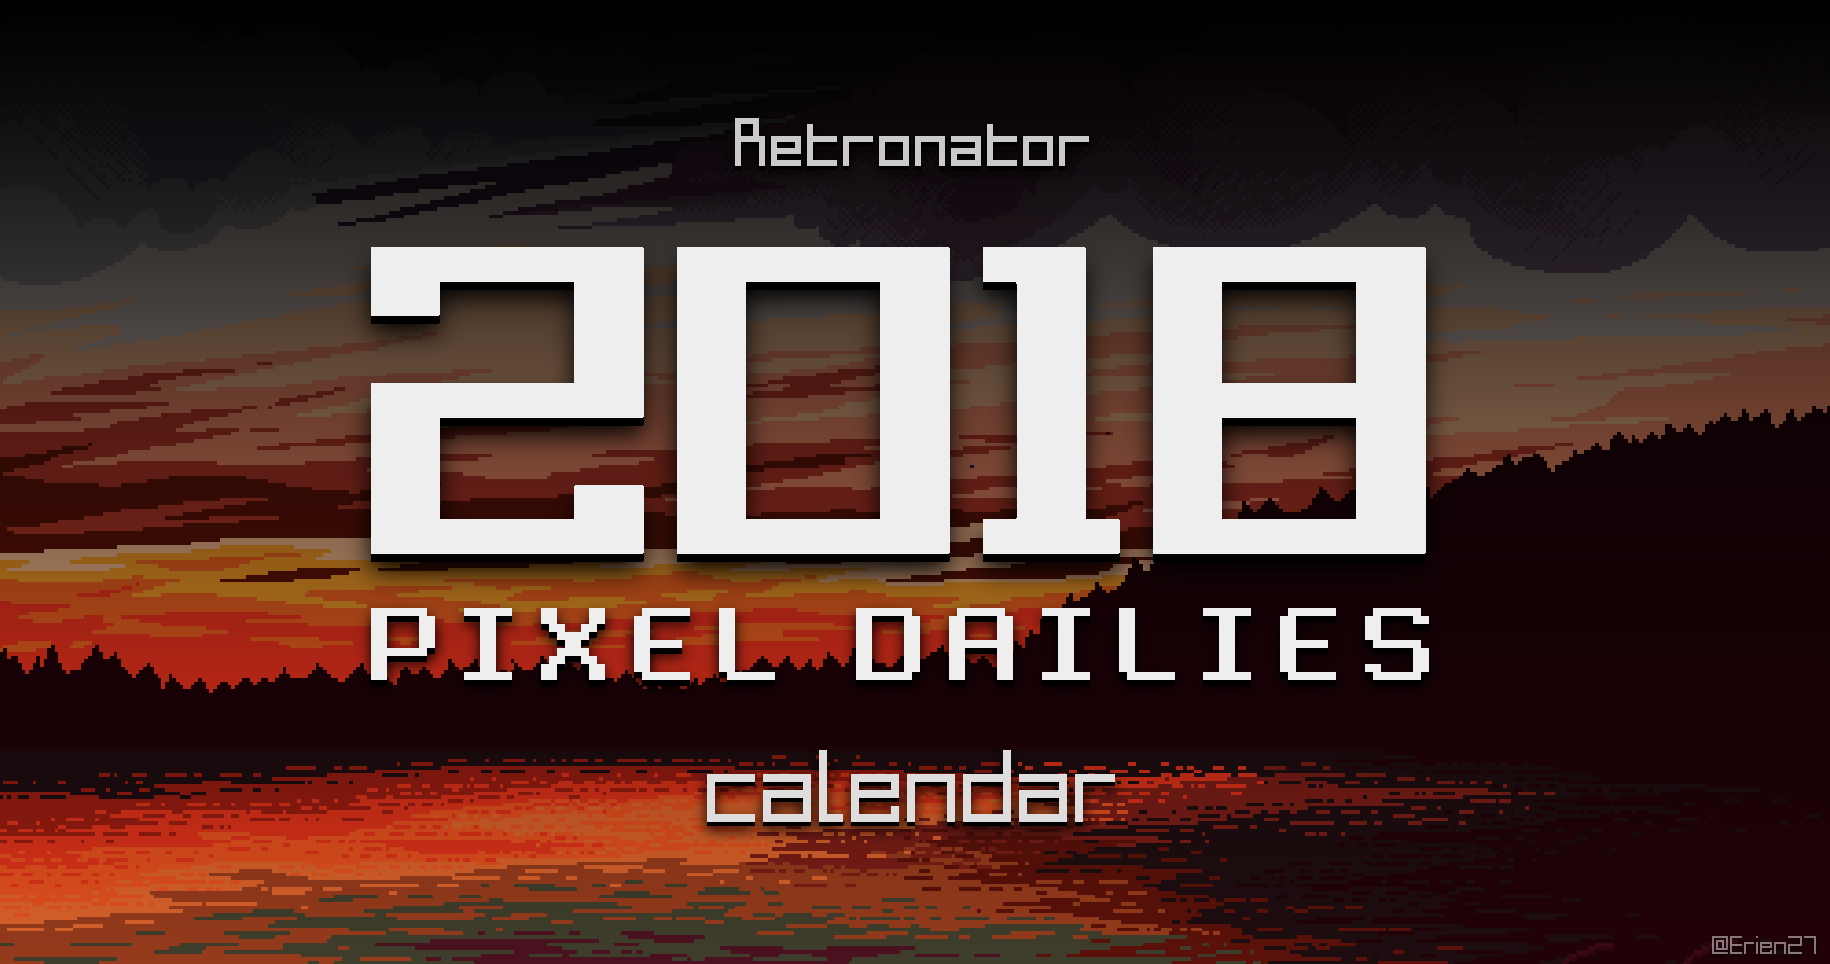
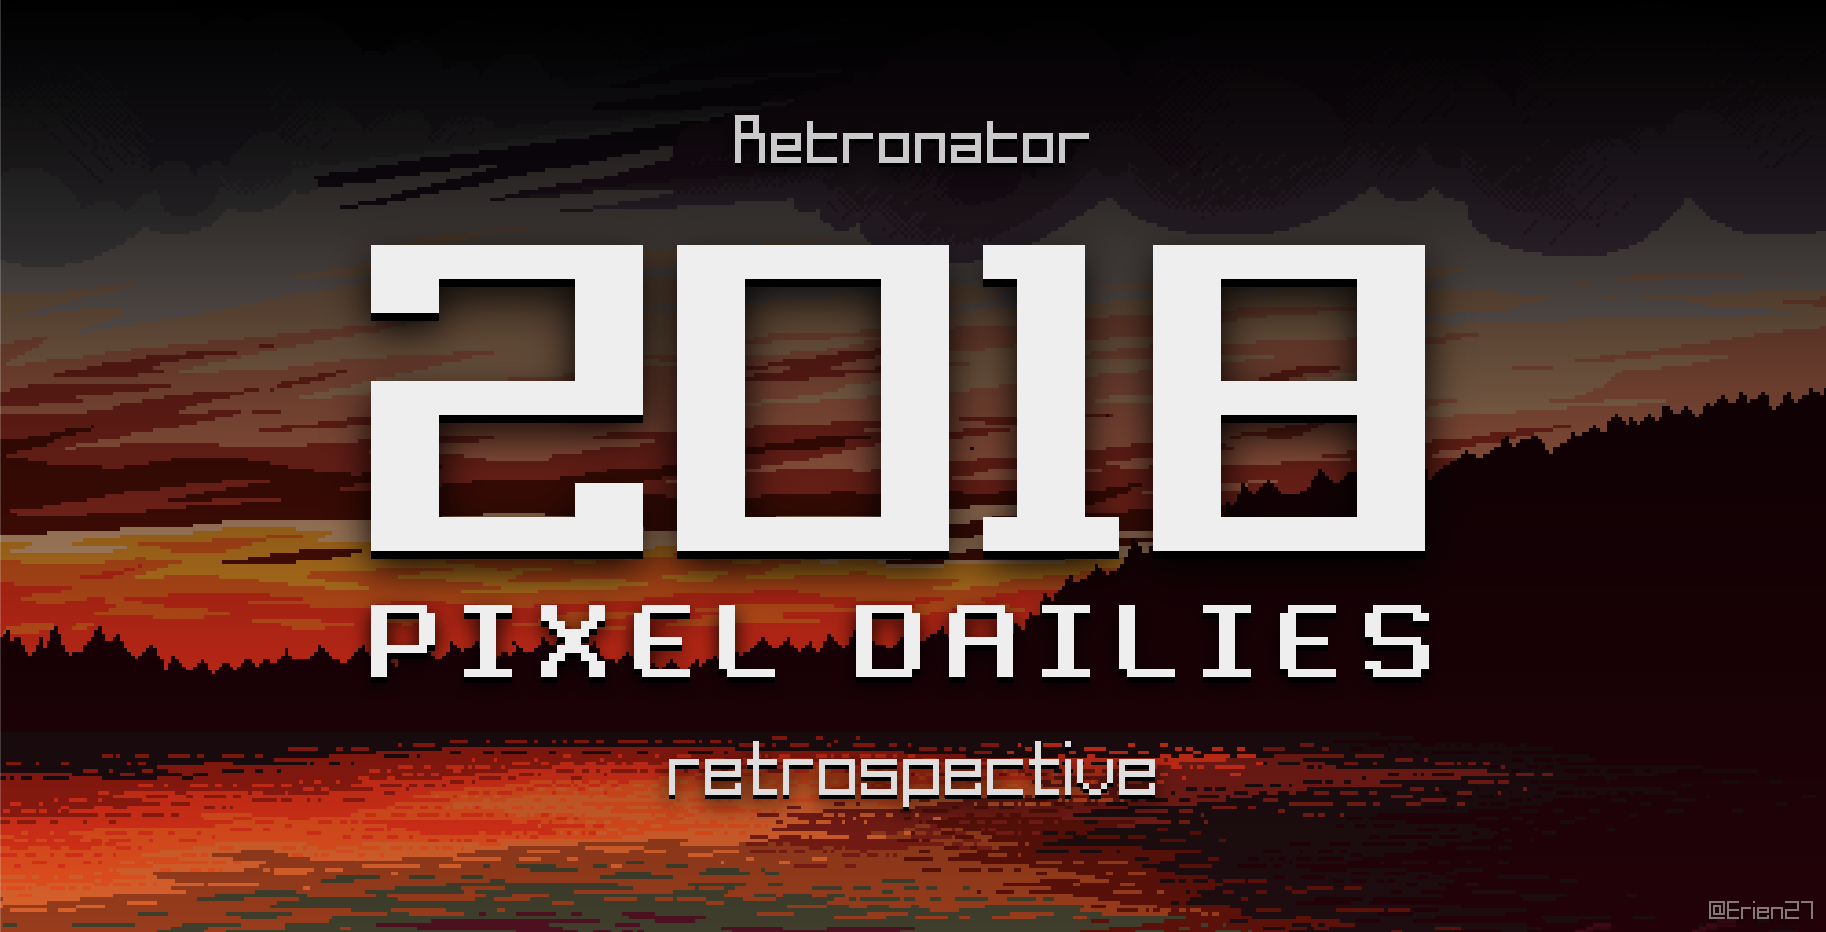
Updated design and share images for Pixel Dailies.

diff --git a/packages/pixelartdatabase-pixeldailies/pages/yearreview/components/navigation/navigation.html b/packages/pixelartdatabase-pixeldailies/pages/yearreview/components/navigation/navigation.html
@@ -3,6 +3,7 @@
     {{> Artificial.Base.RouteLink args 'Themes' 'PixelArtDatabase.PixelDailies.Pages.YearReview.Day' routeParameters}}
     {{> Artificial.Base.RouteLink args 'Artworks' 'PixelArtDatabase.PixelDailies.Pages.YearReview.Artworks' routeParameters}}
     {{> Artificial.Base.RouteLink args 'Artists' 'PixelArtDatabase.PixelDailies.Pages.YearReview.Artists' routeParameters}}
+    {{> Artificial.Base.RouteLink args 'About' 'PixelArtDatabase.PixelDailies.Pages.YearReview.About' routeParameters}}
     {{> Artificial.Base.RouteLink args 'Archive' 'PixelArtDatabase.PixelDailies.Pages.Home'}}
   </nav>
 </template>

diff --git a/packages/landsofillusions/adventure/adventure.html b/packages/landsofillusions/adventure/adventure.html
@@ -14,5 +14,5 @@
   {{#if showLoading}}
     {{> LandsOfIllusions.Pages.Loading}}
   {{/if}}
-  <a class="build-version" href="https://github.com/retronator/pixel-art-academy" target="_blank">alpha build 0.54.1</a>
+  <a class="build-version" href="https://github.com/retronator/pixel-art-academy" target="_blank">alpha build 0.54.2</a>
 </template>

diff --git a/packages/retronator-app/package.js b/packages/retronator-app/package.js
@@ -1,6 +1,6 @@
 Package.describe({
   name: 'retronator:app',
-  version: '0.54.1',
+  version: '0.54.2',
   // Brief, one-line summary of the package.
   summary: '',
   // URL to the Git repository containing the source code for this package.
